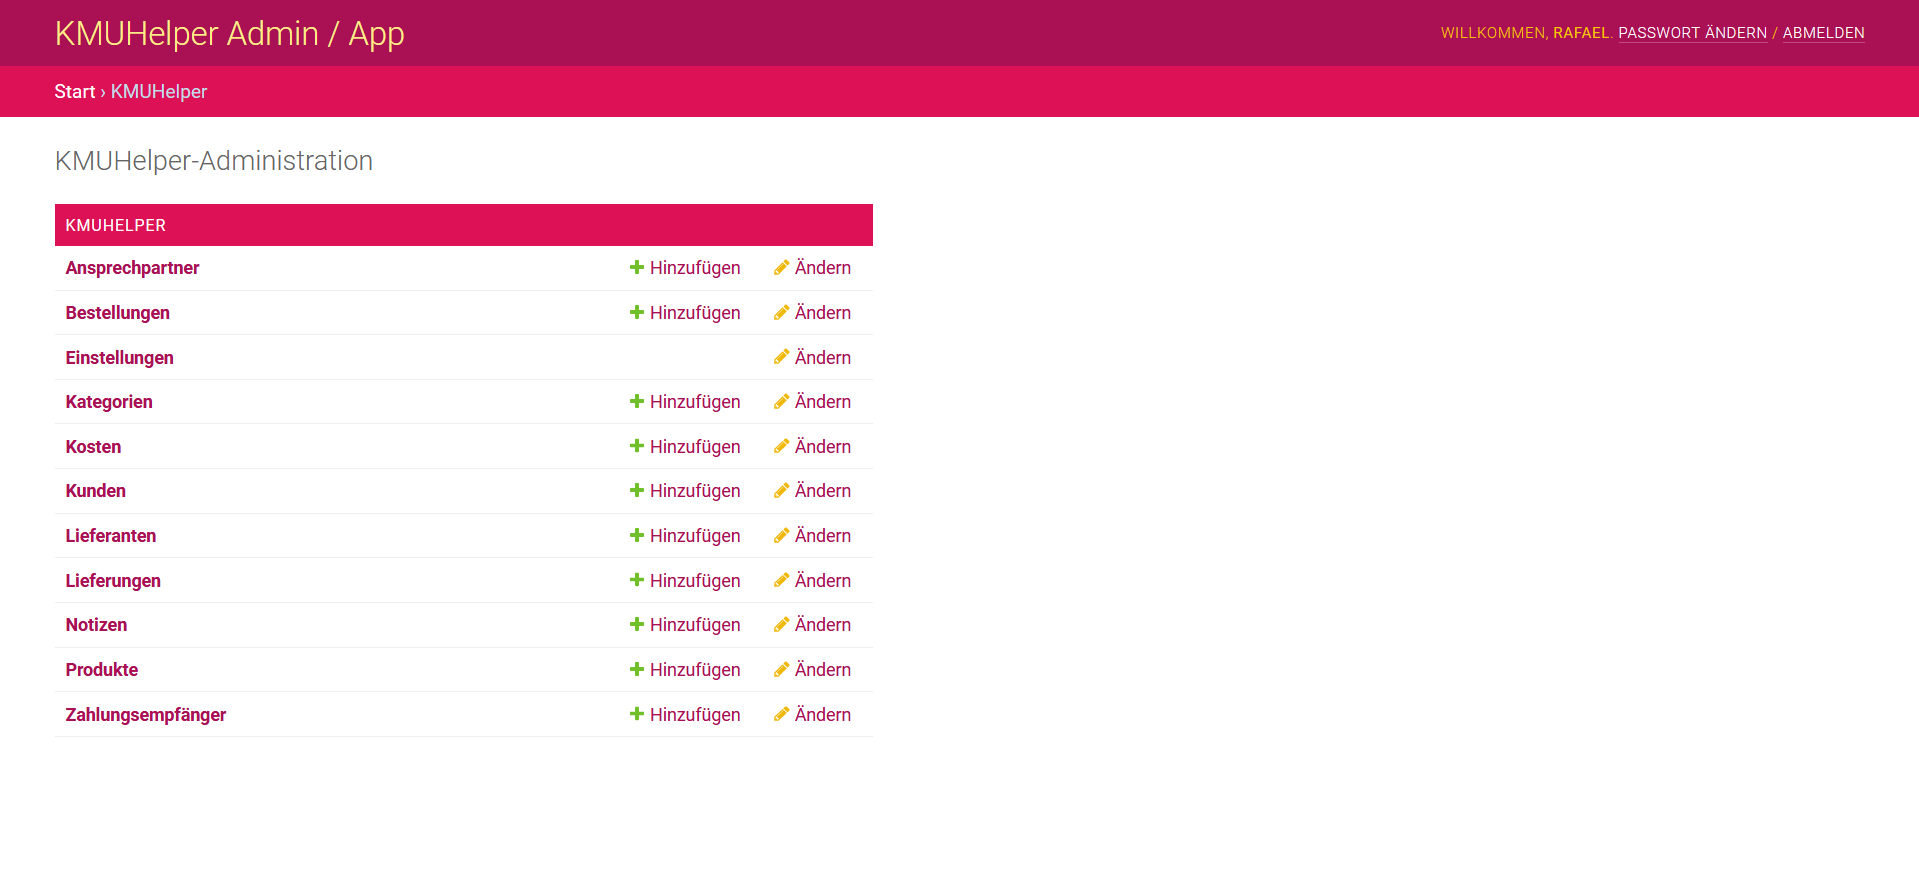
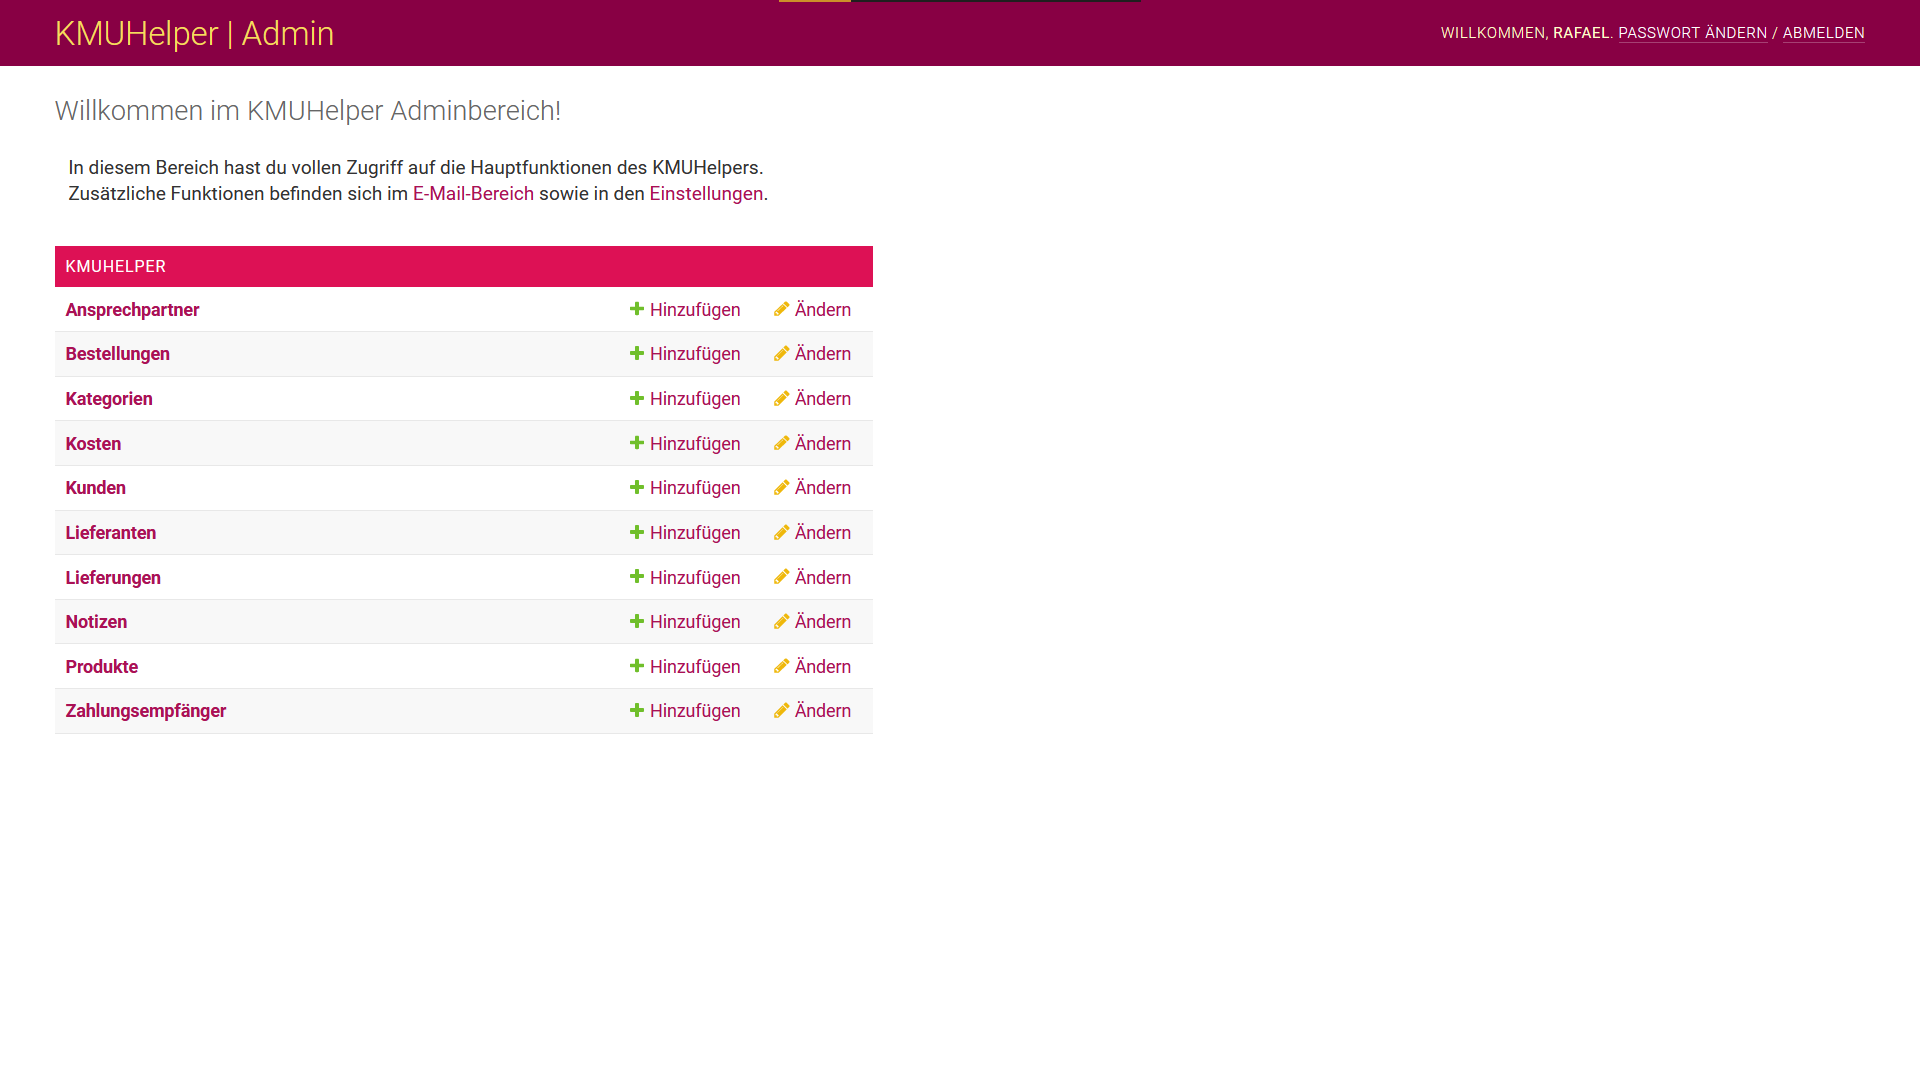
DOCS

diff --git a/docs/manual/order-and-invoice.md b/docs/manual/order-and-invoice.md
@@ -8,34 +8,44 @@ Mit dem KMUHelper können Sie Bestellungen erfassen und die dazugehörige Rechnu
 
 Beispielrechnung: (Hinweis: Das Logo kann geändert werden!)
 
-[![KMUHelper Beispielrechnung](../assets/images/screenshots/example-invoice.jpg)](../assets/pdfs/example-invoice.pdf)
+[![KMUHelper Beispielrechnung](../assets/images/screenshots/example-invoice.jpg)](../assets/pdf/example-invoice.pdf)
 
 *****
 
-Als erstes müssen Sie die Erstellseite für Bestellungen (`/admin/kmuhelper/bestellung/add`) öffnen. Diese ist via Admin-Bereich (`/admin/kmuhelper`) -> Bestellungen -> Hinzufügen erreichbar.
+## Bestellung erstellen
+
+Als erstes müssen Sie die Erstellseite für Bestellungen (`/admin/kmuhelper/bestellung/add`) öffnen. Diese ist via Admin-Bereich -> Bestellungen -> Hinzufügen erreichbar.
 
 Dort können Sie als erstes den Zahlungsempfänger und Ansprechpartner der Bestellung auswählen.
 Anschliessend können Sie Einstellungen zur Lieferung und Bezahlung vornehmen.
 
-Als nächstes können Sie einen Kunden auswählen. Klicken Sie dazu auf die Lupe neben dem Feld und wählen Sie einen Kunden aus oder geben Sie direkt die Kundennummer ein, falls Sie diese wissen. Wenn ein Kunde ausgewählt wird, werden beim ersten Speichern automatisch die Adressen des Kunden in die Bestellung kopiert. Falls Sie keinen Kunden auswählen, können Sie nach dem ersten Speichern die Adressen manuell eingeben. (Die zweite Variante ist jedoch nicht empfohlen!)
+Als nächstes können Sie einen Kunden auswählen. Klicken Sie dazu in das Feld und wählen Sie einen Kunden aus oder beginnen Sie zu tippen, um die Kunden zu durchsuchen. Wenn ein Kunde ausgewählt wird, werden beim ersten Speichern automatisch die Adressen des Kunden in die Bestellung kopiert. Falls Sie keinen Kunden auswählen, können Sie nach dem ersten Speichern die Adressen manuell eingeben. (Die zweite Variante ist jedoch nicht empfohlen!)
 
 Das Feld "Kundennotiz" dient dazu, Kundenwünsche zu notieren. (Bei Import von WooCommerce ist dieses Feld nicht bearbeitbar.)
 
-Weiter unten können Sie Bestellungsposten sowie Bestellungskosten hinzufügen. Auch dort können Sie wieder mit der Lupe arbeiten. **Bitte beachten Sie jedoch, dass die ID des Produkts, welche in dieses Feld gehört, NICHT zwingend der Artikelnummer entspricht!**
+Weiter unten können Sie Bestellungsposten sowie Bestellungskosten hinzufügen.
 
 Wenn Sie alle Daten ausgefüllt haben, können Sie unten oder oben auf der Seite auf `Sichern und weiter bearbeiten` klicken.
 
 Nach dem ersten Speichern sehen Sie neue, zuvor nicht ersichtliche Optionen. Dies beinhaltet zum Beispiel das Datum und der Status der Bestellung sowie Rechnungsadresse und Lieferadresse der Bestellung. Auch sehen Sie nun berechnete Summen und die Optionen, die Bestellung als `versendet` und `bezahlt` zu markieren. Bitte beachten Sie, dass die Summen immer nur beim Speichern aktualisiert werden!
 
+Hinweis: Das Feld `Status` hat keine Funktion und dient nur zu Übersichtszwecken.
+
 Sobald eine Bestellung als bezahlt markiert wurde, können Bestellungsposten, Bestellungskosten, Rechnungsadresse sowie Zahlungsmethode nicht mehr bearbeitet werden!
 
-Sobald eine Bestellung als versendet markiert wurde, können Bestellungsposten, Lieferadresse sowie Trackingnummer nicht mehr bearbeitet werden!
+Sobald eine Bestellung als versendet markiert wurde, können Bestellungsposten sowie Lieferadresse nicht mehr bearbeitet werden!
 
-*****
+## PDF generieren
 
-Nachdem Sie alles gespeichert haben sind sie bereit, eine Rechnung zu drucken. Dazu können Sie oben rechts auf der Seite auf `Rechnung (Druck)` klicken und das PDF-Dokument ausdrucken. **Beachten Sie dabei, dass Sie möglicherweise die Druckgrösse auf 100% einstellen müssen, falls dies nicht Standard ist.**
+Nachdem Sie alles gespeichert haben sind sie bereit, eine Rechnung zu drucken. Dazu können Sie oben rechts auf der Seite im Dropdown `PDF generieren` auf `Rechnung (Druck)` klicken und das PDF-Dokument ausdrucken.
+
+**Beachten Sie dabei, dass per Papier versendete QR-Rechnungen auf ein perforiertes Papier gedruckt werden müssen und dass Sie möglicherweise die Druckgrösse auf 100% einstellen müssen, falls dies nicht Standard ist. Passen Sie bei mehrseitigen Rechnungen auch auf, dass Sie nur die letzte Seite auf perforiertes Papier drucken und dass deren Rückseite leer bleiben muss!**
 
 Oben rechts können Sie auch eine digitale Rechnung sowie einen Lieferschein abrufen.
+
+## E-Mails
+
+Sofern in den Einstellungen aktiviert, befindet sich oben rechts auf der Seite auch ein Dropdown Menu für E-Mails. Dort kann automatisch ein E-Mail mit dem PDF als Anhang generiert werden.
 
 ## Zurück
 

diff --git a/docs/manual/setup.md b/docs/manual/setup.md
@@ -4,9 +4,13 @@ permalink: /manual/setup
 
 # Einrichtung
 
-Rufen Sie als erstes folgende Seite auf: `/admin/kmuhelper/`
+Rufen Sie als erstes folgende Seite auf: `/kmuhelper/`
 
 Sie sollten folgende Ansicht erhalten:
+
+![KMUHelper - Home](../assets/images/screenshots/home.png)
+
+Wenn Sie dann auf Admin klicken, sollten Sie auf folgende Seite gelangen:
 
 ![KMUHelper Admin - Home](../assets/images/screenshots/admin_home.png)
 
@@ -20,17 +24,23 @@ Füllen Sie alle Felder realitätsgetreu aus und klicken Sie auf `Sichern`.
 
 Dies ist notwendig, da mindestens ein Zahlungsempfänger vorhanden sein muss, um Bestellungen erstellen zu können.
 
+Zu beachten gilt hierbei, dass der KMUHelper zurzeit nur QR-IBANs unterstützt. (Diese starten nach der Prüfziffer immer mit einer 3, also `CHpp 3xxx xxxx xxxx xxxx x`)
+
 PS: Leider können im KMUHelper direkt keine Bilder hochgeladen werden, deshalb muss auf ein extern gespeichertes Bild verwiesen werden.
 
 ## Ansprechpartner
 
-Jeder Bestellung wird ein Ansprechpartner zugeordnet. Da Bestellungen zwingend einen Ansprechpartner brauchen, muss mindestens ein Ansprechpartner vorhanden sein, damit man eine Bestellung erstellen kann.
+Jeder Bestellung wird ein Ansprechpartner zugeordnet, welcher auf auf Rechnungen ersichtlich ist. Da Bestellungen zwingend einen Ansprechpartner brauchen, muss mindestens ein Ansprechpartner vorhanden sein, damit eine Bestellung erstellt werden kann.
 
 Klicken Sie im Adminbereich auf `Ansprechpartner` und danach auf `Ansprechpartner hinzufügen` oder direkt neben `Ansprechpartner` auf `hinzufügen`.
 
-Füllen Sie alle Felder realitätsgetreu aus und klicken Sie auf `Sichern`
+Füllen Sie alle Felder realitätsgetreu aus und klicken Sie auf `Sichern`.
 
-Sie können so viele Ansprechpartner erstellen, wie Sie wollen. Die Informationen eines Ansprechpartners werden auf der Rechnung jeder Bestellung mit diesem Ansprechpartner ersichtlich sein.
+Sie können so viele Ansprechpartner erstellen, wie Sie wollen.
+
+## Einstellungen
+
+Von `/admin/kmuhelper` können Sie mit einem Klick auf `Einstellungen` ein paar Einstellungen vornehmen, diese können aber auch zu einem späteren Zeitpunkt angepasst werden.
 
 ## Integrationen
 

diff --git a/docs/manual/customers.md b/docs/manual/customers.md
@@ -6,7 +6,7 @@ permalink: /manual/customers
 
 In diesem Tutorial wird erklärt, wie Sie Ihre Kunden verwalten können.
 
-Das Kundenmanagement befindet sich unter `/admin/kmuhelper/kunde/`.
+Das Kundenmanagement befindet sich unter `/admin/kmuhelper/kunde/`. (via Adminbereich erreichbar)
 
 Dort sehen Sie als erstes eine Auflistung aller bereits erfassten Kunden.
 Um einen neuen Kunden hinzuzufügen, klicken Sie oben rechts auf `Kunde hinzufügen`. Je nach Konfiguration können Sie auch Kunden von anderen Orten importieren.
@@ -17,17 +17,26 @@ Bei jedem Kunden können Sie folgende Felder festlegen:
 
 - Vorname, Nachname und Firmenname
 - E-Mail-Adresse und Benutzername haben aktuell noch keine Funktion, werden aber von WooCommerce importiert.
-- Sprache (Wird vorerst nur für den Rechnungsdruck verwendet.)
+- Sprache (Wird vorerst nur für den Rechnungsdruck verwendet, nicht aber für E-Mails)
 - Rechnungsadresse und Lieferadresse
   - Oben rechts finden Sie einen Knopf, mit welchem Sie die Rechnungsadresse automatisch zur Lieferadresse kopieren können. (Dies geschieht lokal,    solange Sie also nicht speichern, passiert nichts.)
   - Hinweis: Die Lieferadresse wird nur im Lieferschein verwendet, welcher zusätzlich zur Rechnung gedruckt werden kann!
+
+<!-- List seperator -->
+
 - Webseite und Bemerkung haben aktuell keine Funktion und dienen nur zu eigenen Zwecken.
 
-- Notiz (nur in der Listenansicht) - Hiermit können Sie eine Notiz erstellen, welche automatisch mit diesem Kunden verknüpft wird.
+- Notiz - Hiermit können Sie eine Notiz erstellen, welche automatisch mit diesem Kunden verknüpft wird.
 
-Im Anschluss sehen Sie eine Ansicht des Kundenmanagements
+Im Anschluss sehen Sie eine Ansicht des Kundenmanagements:
 
 ![KMUHelper Admin - Kunde](../assets/images/screenshots/admin_kunde.png)
+
+## Funktionen
+
+Kunden dienen hauptsächlich als Speicherort von Daten für das schnelle Erstellen von neuen Bestellungen und um Bestellungsverläufe für Kunden anzusehen.
+
+Beim Erstellen von Bestellungen kann ein Kunde ausgewählt werden, aus welchem die Adressen KOPIERT werden. (Diese sind dann unabhängig vom Kunden gespeichert.)
 
 ## Zurück
 

diff --git a/docs/manual/storage.md b/docs/manual/storage.md
@@ -14,9 +14,13 @@ Bei jedem Produkt gibt es das Feld "Lagerbestand". Dieses wird bei folgenden Ere
 
 Wenn eine Bestellung gespeichert wird, werde alle Produktposten dieser Bestellung mit allen offenen Bestellungen und dem aktuellen Lagerbestand verglichen. Falls der vorhergesehene Lagerbestand den "Soll-Lagerbestand" (kann bei jedem Produkt separat geändert werden; Standard: 1) unterschreitet, wird eine dementsprechende Warnung angezeigt. Falls dies beim Import einer Bestellung passiert, wird eine E-Mail an den in den Einstellungen festgelegten Empfänger gesendet.
 
+Eine solche E-Mail Warnung sieht ungefähr so aus:
+
+![KMUHelper E-Mails - Lagerbestandswarnung](../assets/images/screenshots/email_stock_warning.png)
+
 ## Inventar
 
-Wenn Sie Ihren Lagerbestand in den KMUHelper übertragen möchten, geht dies am Besten auf der Seite "Lagerbestand" in der [KMUHelper-App](app.md). (V1: `/kmuhelper/app/#lagerbestand` - V2: `/admin/kmuhelper/todolagerbestand/`)
+Wenn Sie Ihren Lagerbestand in den KMUHelper übertragen möchten, geht dies am Besten auf der Seite "Lagerbestand" in der [KMUHelper App](app.md). (Erreichbar via Startseite.)
 
 ## Zurück
 

diff --git a/docs/manual/app.md b/docs/manual/app.md
@@ -5,13 +5,23 @@ permalink: /manual/app
 # App
 
 Der KMUHelper kommt mit seiner eigenen kleinen (Web-)App.
-Diese befindet sich unter `/kmuhelper/app/`.
+Diese ist via Startseite erreichbar.
+
+## Versionen
+
+### App-Style (v1)
 
 Wenn Sie diese Seite auf dem Handy öffnen, können Sie, je nach Ihrem Betriebssystem, die Webseite zum Home-Bildschirm hinzufügen. (Googeln Sie dazu nach Ihrem Betriebssystem + `PWA installieren`, falls Sie noch nicht wissen, wie und ob das geht. -> z.B. ["iOs PWA installieren"](https://www.google.com/search?q=iOs+PWA+installieren) oder ["Android PWA installieren"](https://www.google.com/search?q=Android+PWA+installieren))
 
 Die App sollte nach dem Login so aussehen:
 
 <img src="../assets/images/screenshots/app_home.png" alt="KMUHelper App - Home" style="max-width: min(375px, 90vw);">
+
+## Admin-Style (v2)
+
+Die Admin-Version dieser App, welche für grössere Bildschirme optimiert ist, sieht etwa so aus:
+
+![KMUHelper App - Index](../assets/images/screenshots/app_index.png)
 
 ## Funktionen
 

diff --git a/docs/manual/languages.md b/docs/manual/languages.md
@@ -4,7 +4,7 @@ permalink: /manual/languages
 
 # Sprachen
 
-Der KMUHelper selbst ist aktuell nur in Deutsch verfügbar und eine Übersetzung ist vorerst nicht geplant. Jedoch können die Rechnungen in Deutsch, Französisch, Italienisch und Englisch gedruckt werden. Dabei wird immer die beim Kunden eingestellte Sprache verwendet.
+Der KMUHelper selbst ist aktuell nur in Deutsch verfügbar und eine Übersetzung ist vorerst nicht geplant, jedoch können die Rechnungen in Deutsch, Französisch, Italienisch und Englisch gedruckt werden. Dabei wird immer die beim verlinkten Kunden eingestellte Sprache verwendet.
 
 Um auch Produkte und Mengenbezeichnungen zu übersetzen, wird der gleiche Syntax wie beim Wordpress Plugin `qTranslate-X` verwendet.
 

diff --git a/docs/manual/README.md b/docs/manual/README.md
@@ -21,10 +21,14 @@ Die Entwicklung und Unterhaltung des KMUHelper benötigt sehr viel Zeit, deshalb
 - [Einrichtung](setup.md)
 - [App](app.md)
 
+<!-- List divider -->
+
 - [Lagermanagement](storage.md)
 - [Kundenmanagement](customers.md)
 - [Bestellungen & Rechnungen](order-and-invoice.md)
 - [E-Mails](emails.md)
+
+<!-- List divider -->
 
 - [Sprachen](languages.md)
 

diff --git a/docs/README.md b/docs/README.md
@@ -16,4 +16,4 @@ Hier finden Sie eine Bedienungsanleitung zum KMUHelper. Wenn Sie auf der Suche n
 
 ## Infos
 
-Kontaktmöglichkeiten und weiter Informationen finden Sie alle auf [der Projektseite](https://rafaelurben.ch/kmuhelper).
+Kontaktmöglichkeiten und weitere Informationen finden Sie alle auf [der Projektseite](https://rafaelurben.ch/kmuhelper).
